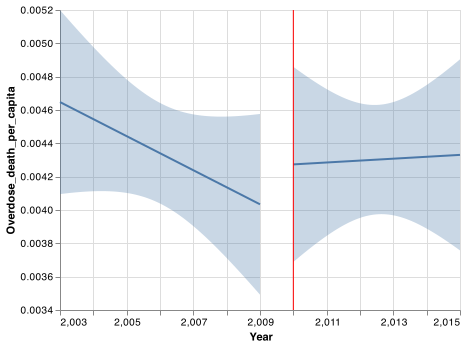
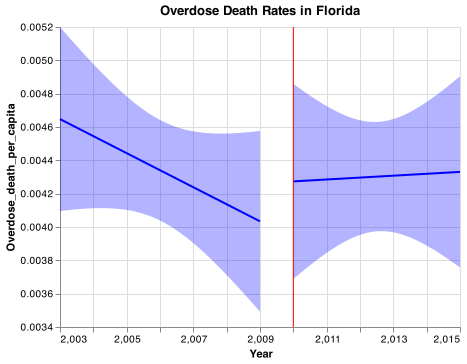
changed plot color, a little typo fixed

diff --git a/10_code/TX_overdose_analysis.py b/10_code/TX_overdose_analysis.py
@@ -35,19 +35,23 @@ def get_ols_prediction(df, grid, x, y):
     return predictions
 
 
-def get_regression_chart(df, x, y):
+def get_regression_chart(df, x, y, color):
     regression_chart = (
         alt.Chart(df)
-        .mark_line()
+        .mark_line(
+            color=color
+        )
         .encode(x=x, y=alt.Y(y, scale=alt.Scale(zero=False)))
     )
     return regression_chart
 
 
-def get_ci_chart(df, x, y):
+def get_ci_chart(df, x, y, color):
     ci_chart = (
         alt.Chart(df)
-        .mark_errorband()
+        .mark_errorband(
+            color=color
+        )
         .encode(
             x=x,
             y=alt.Y("ci_low", title=y),
@@ -57,7 +61,7 @@ def get_ci_chart(df, x, y):
     return ci_chart
 
 
-def pre_post_analysis(dataframe, year):
+def pre_post_analysis(dataframe, year, color):
     x = "Year"
     y = "Overdose_death_per_capita"
     before = dataframe[dataframe["Year"] < year]
@@ -65,13 +69,13 @@ def pre_post_analysis(dataframe, year):
     
     before_grid = get_plot_grid(before, x, y)
     before_predictions = get_ols_prediction(before, before_grid, x, y)
-    before_reg_chart = get_regression_chart(before_predictions, x, y)
-    before_ci_chart = get_ci_chart(before_predictions, x, y)
+    before_reg_chart = get_regression_chart(before_predictions, x, y, color)
+    before_ci_chart = get_ci_chart(before_predictions, x, y, color)
 
     after_grid = get_plot_grid(after, x, y)
     after_predictions = get_ols_prediction(after, after_grid, x, y)
-    after_reg_chart = get_regression_chart(after_predictions, x, y)
-    after_ci_chart = get_ci_chart(after_predictions, x, y)
+    after_reg_chart = get_regression_chart(after_predictions, x, y, color)
+    after_ci_chart = get_ci_chart(after_predictions, x, y, color)
     return before_reg_chart + before_ci_chart, after_reg_chart + after_ci_chart
 
 
@@ -90,27 +94,30 @@ if __name__ == "__main__":
 
     # Pre-post analysis
     line = get_vertical_line(2007)
-    TX_pre, TX_post = pre_post_analysis(TX, 2007)
-    TX_pre_post_chart = alt.layer(TX_pre, TX_post, line).properties()
+    TX_pre, TX_post = pre_post_analysis(TX, 2007, "blue")
+    TX_pre_post_chart = alt.layer(TX_pre, TX_post, line).properties(
+        title="Overdose Death Rates in Texas"
+    )
     TX_pre_post_chart.save(f"{path_prefix}TX.png")
 
     # The diff-in-diff charts between each comparison state
     # Texas vs. Wisconsin
-    WI_pre, WI_post = pre_post_analysis(WI, 2007)
+    ref_color = "green"
+    WI_pre, WI_post = pre_post_analysis(WI, 2007, ref_color)
     TX_vs_WI = alt.layer(TX_pre_post_chart, WI_pre + WI_post, line).properties(
         title="Overdose Death Rates in Texas vs. Wisconsin"
     )
     TX_vs_WI.save(f"{path_prefix}TX_vs_WI.png")
 
     # Texas vs. Mississippi
-    MS_pre, MS_post = pre_post_analysis(MS, 2007)
+    MS_pre, MS_post = pre_post_analysis(MS, 2007, ref_color)
     TX_vs_MS = alt.layer(TX_pre_post_chart, MS_pre + MS_post, line).properties(
         title="Overdose Death Rates in Texas vs. Mississippi"
     )
     TX_vs_MS.save(f"{path_prefix}TX_vs_MS.png")
 
     # Texas vs. Kansas
-    KS_pre, KS_post = pre_post_analysis(KS, 2007)
+    KS_pre, KS_post = pre_post_analysis(KS, 2007, ref_color)
     TX_vs_KS = alt.layer(TX_pre_post_chart, KS_pre + KS_post, line).properties(
         title="Overdose Death Rates in Texas vs. Kansas"
     )

diff --git a/10_code/FL_overdose_analysis.py b/10_code/FL_overdose_analysis.py
@@ -23,27 +23,30 @@ if __name__ == "__main__":
     # Pre-post analysis
     year = 2010
     line = get_vertical_line(year)
-    FL_pre, FL_post = pre_post_analysis(FL, year)
-    FL_pre_post_chart = alt.layer(FL_pre, FL_post, line).properties()
+    FL_pre, FL_post = pre_post_analysis(FL, year, "blue")
+    FL_pre_post_chart = alt.layer(FL_pre, FL_post, line).properties(
+        title="Overdose Death Rates in Florida"
+    )
     FL_pre_post_chart.save(f"{path_prefix}FL.png")
 
     # The diff-in-diff charts between each comparison state
     # Texas vs. Arizona
-    AZ_pre, AZ_post = pre_post_analysis(AZ, year)
+    ref_color = "green"
+    AZ_pre, AZ_post = pre_post_analysis(AZ, year, ref_color)
     FL_vs_AZ = alt.layer(FL_pre_post_chart, AZ_pre + AZ_post, line).properties(
         title="Overdose Death Rates in Florida vs. Arizona"
     )
     FL_vs_AZ.save(f"{path_prefix}FL_vs_AZ.png")
 
     # Texas vs. Louisiana
-    LA_pre, LA_post = pre_post_analysis(LA, year)
+    LA_pre, LA_post = pre_post_analysis(LA, year, ref_color)
     FL_vs_LA = alt.layer(FL_pre_post_chart, LA_pre + LA_post, line).properties(
         title="Overdose Death Rates in Florida vs. Louisiana"
     )
     FL_vs_LA.save(f"{path_prefix}FL_vs_LA.png")
 
     # Texas vs. Colorado
-    CO_pre, CO_post = pre_post_analysis(CO, year)
+    CO_pre, CO_post = pre_post_analysis(CO, year, ref_color)
     FL_vs_CO = alt.layer(FL_pre_post_chart, CO_pre + CO_post, line).properties(
         title="Overdose Death Rates in Florida vs. Colorado"
     )
